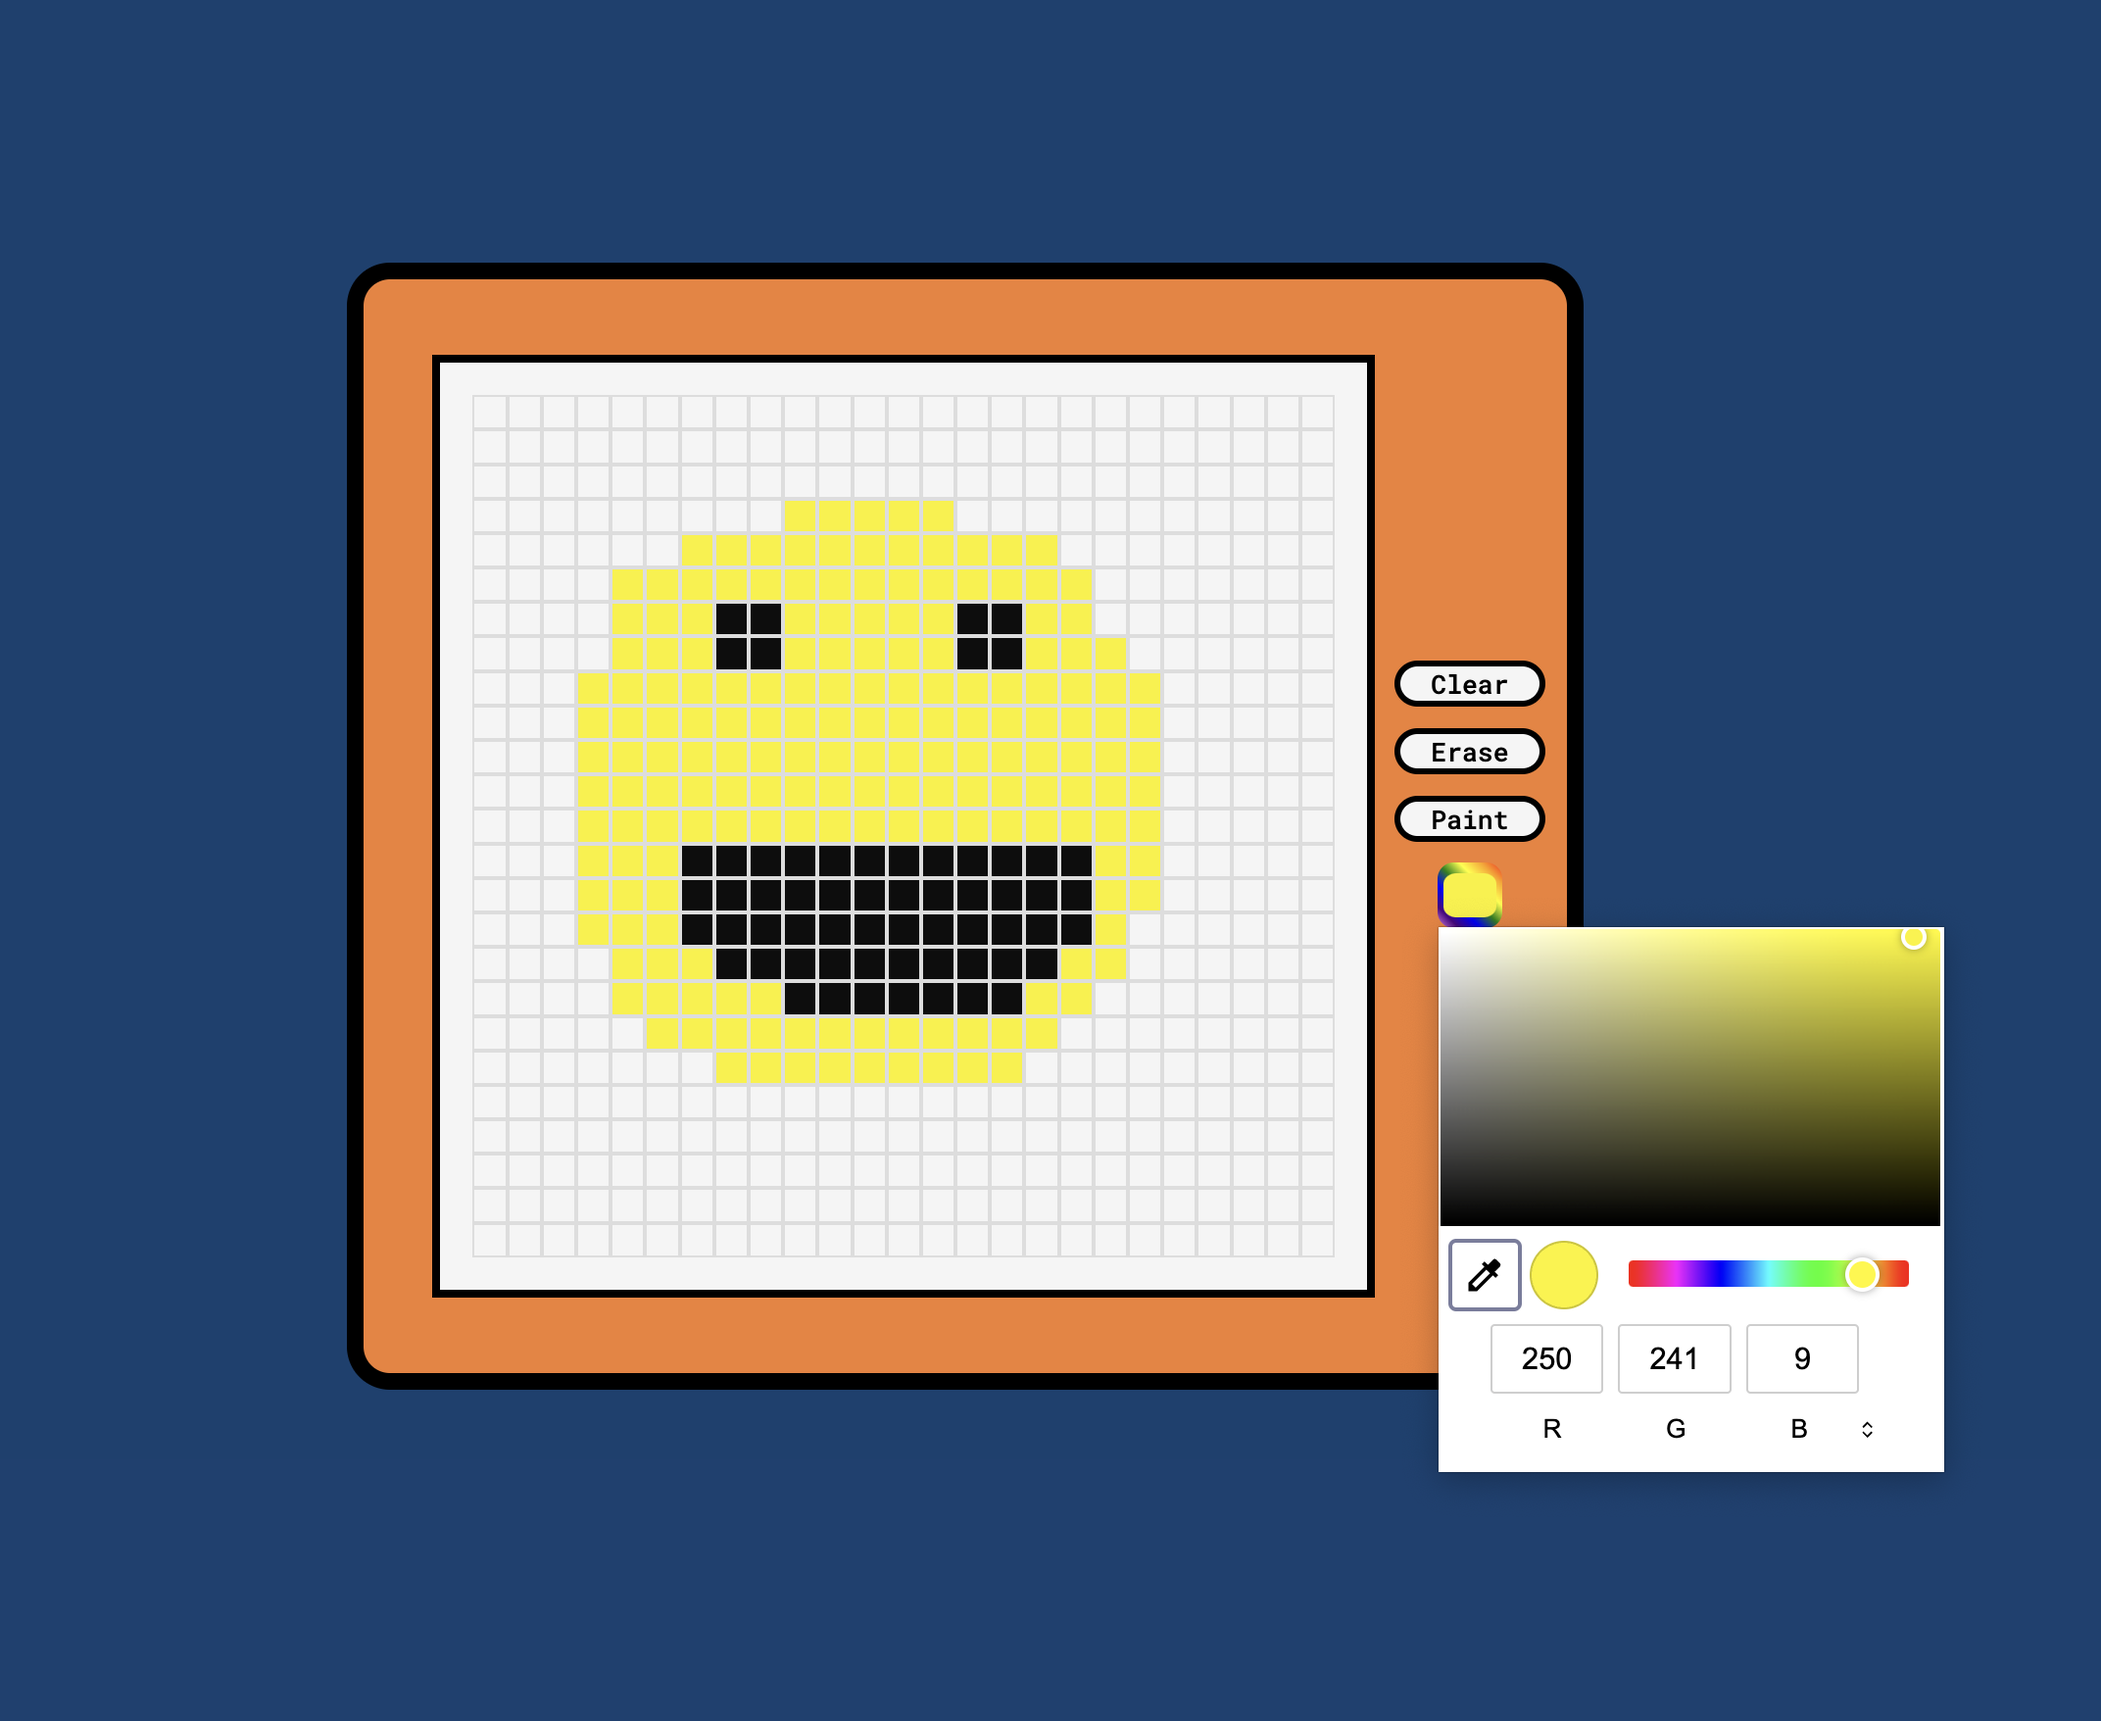
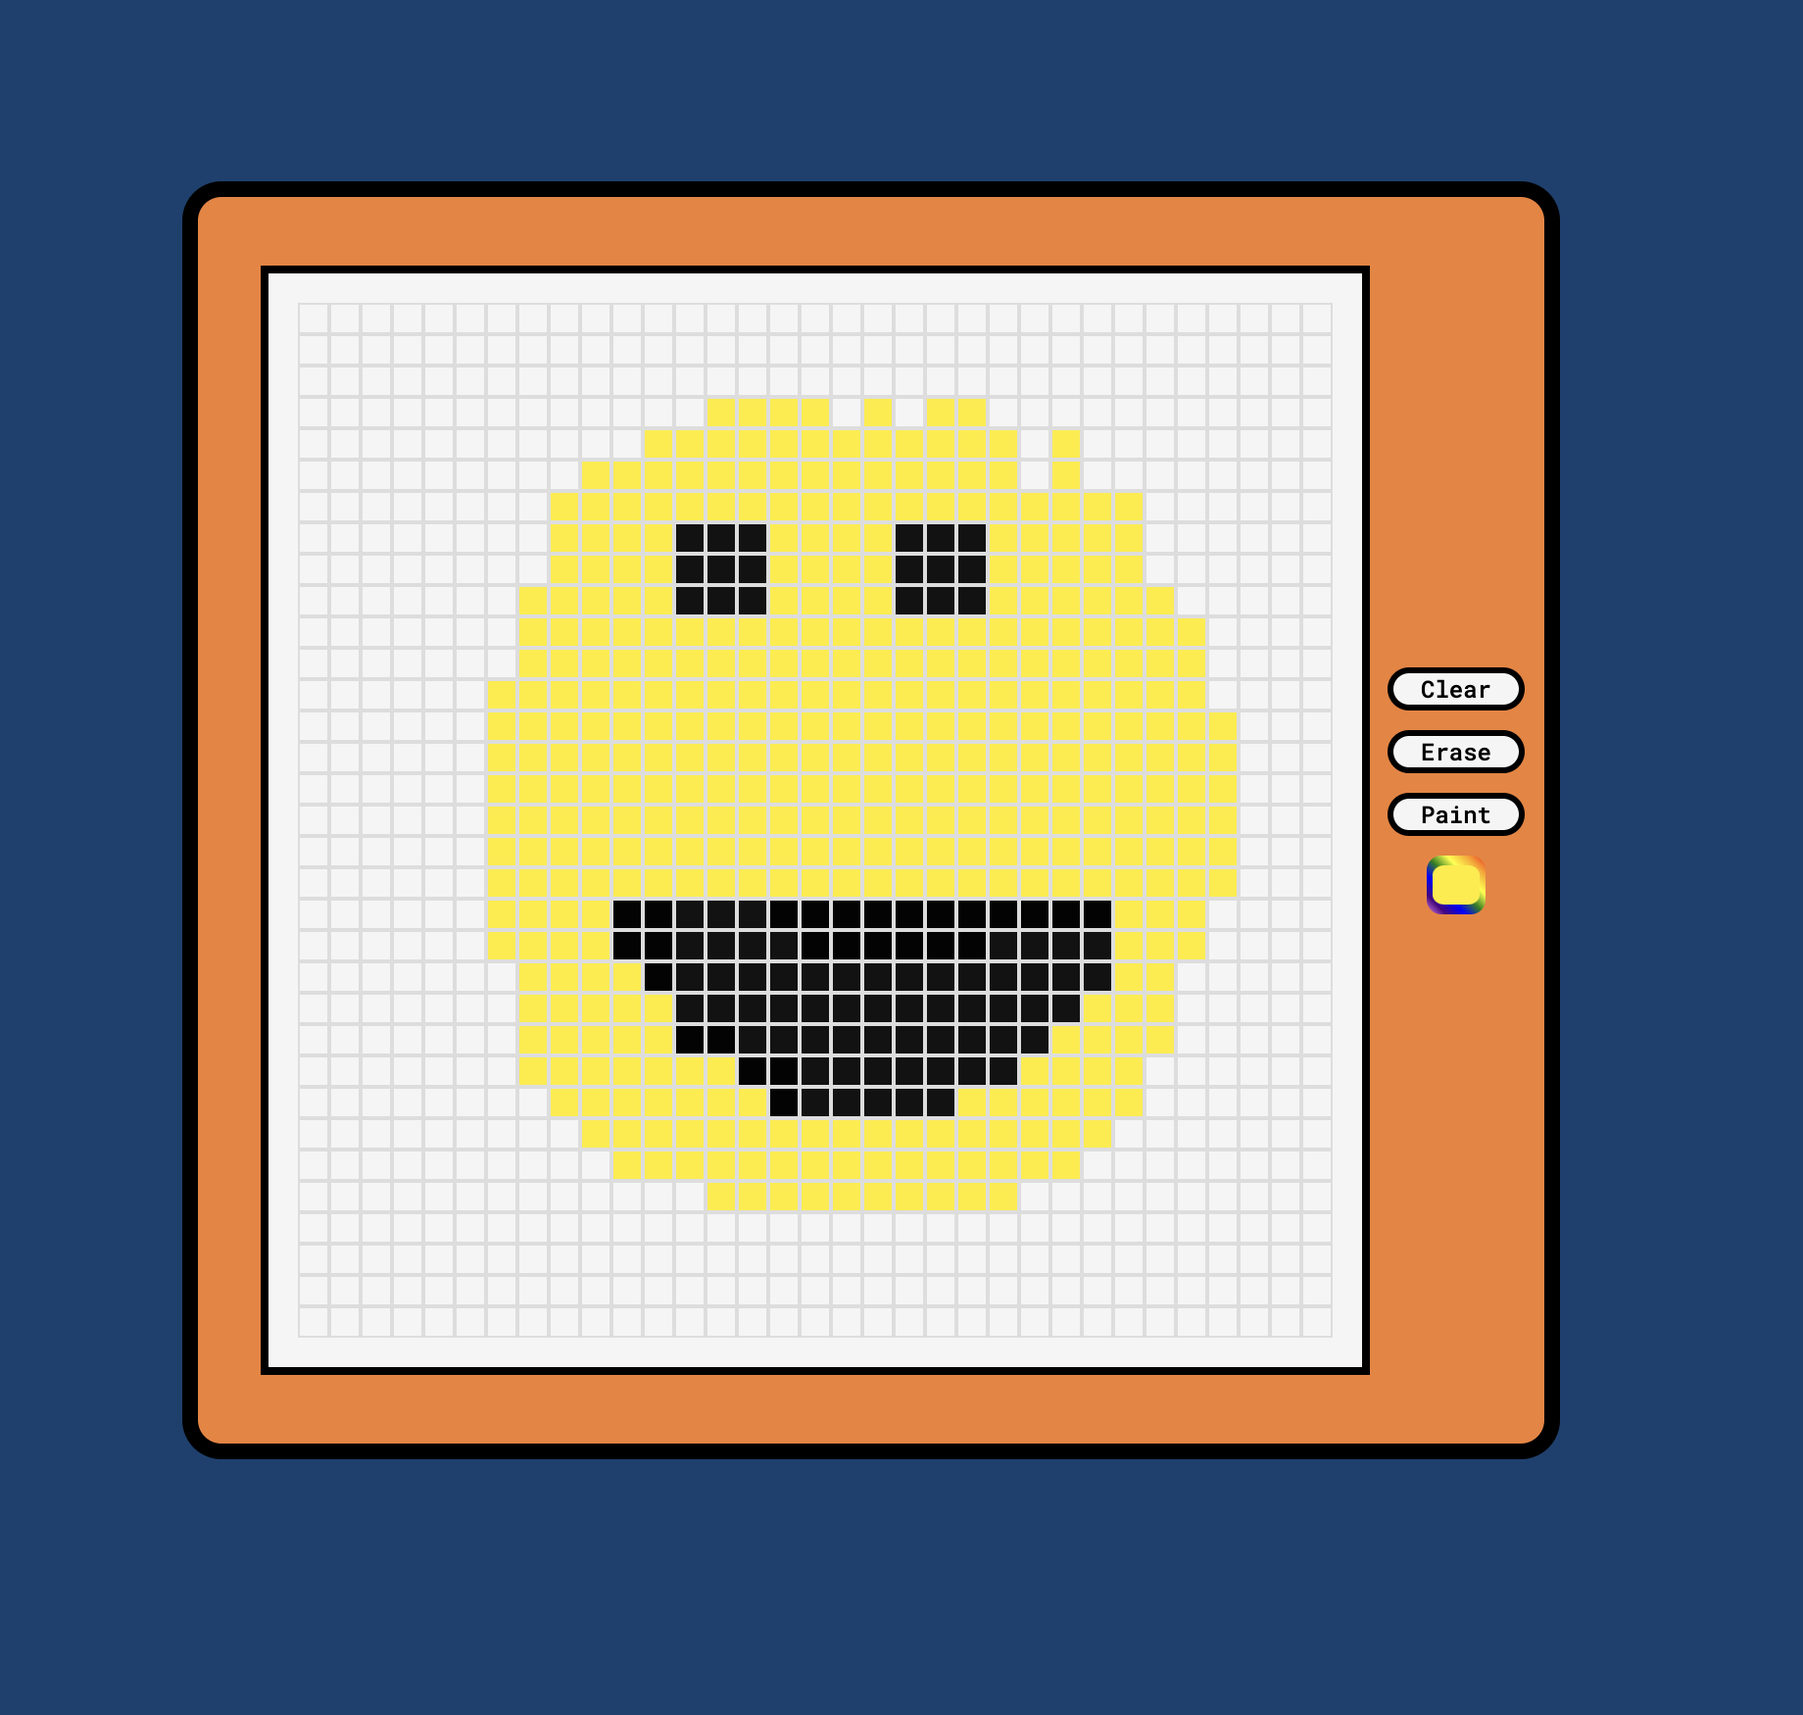
.

diff --git a/index.html b/index.html
@@ -12,12 +12,12 @@
             <div class="begin-options"> 
                 <div class="slider">
                     <label for="width-range">Grid Width</label>
-                    <input type="range" id="width-range" min="10" max="60"/>
+                    <input type="range" id="width-range" min="20" max="60"/>
                     <span id="width-value">00</span>
                 </div>
                 <div class="slider">
                      <label for="height-range">Grid Height</label>
-                     <input type="range" id="height-range" min="10" max="60"/>
+                     <input type="range" id="height-range" min="20" max="60"/>
                      <span id="height-value">00</span>
                 </div>
                 <div class="create-grid-wrapper">

diff --git a/script.js b/script.js
@@ -47,7 +47,7 @@ grid_button.addEventListener('click', () => {
       col.addEventListener(events.down, () => {
         draw = true;
         if (erase) {
-          col.style.backgroundColor = 'transparent';
+          col.style.backgroundColor = 'transparent' ;
         } else {
           col.style.backgroundColor = color_button.value;
         }
@@ -92,8 +92,8 @@ grid_height.addEventListener('input', () => {
 window.onload = () => {
   grid_width.value = 1;
   grid_height.value = 1;
-  width_value.innerHTML = '10';
-  height_value.innerHTML = '10';
+  width_value.innerHTML = '20';
+  height_value.innerHTML = '20';
 };
 
 
